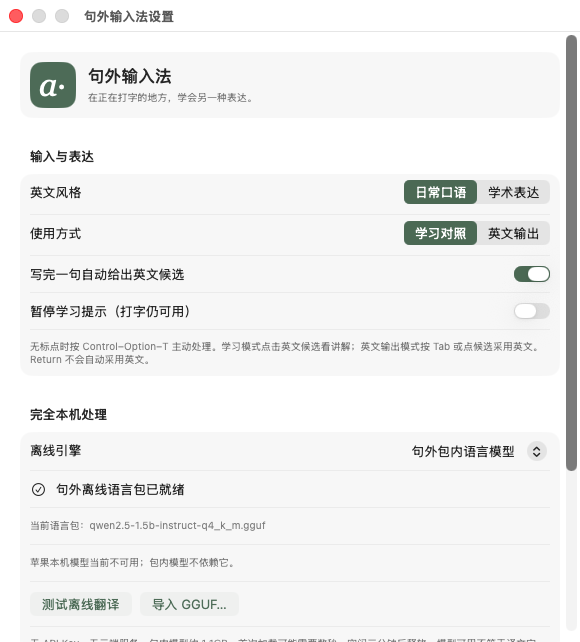
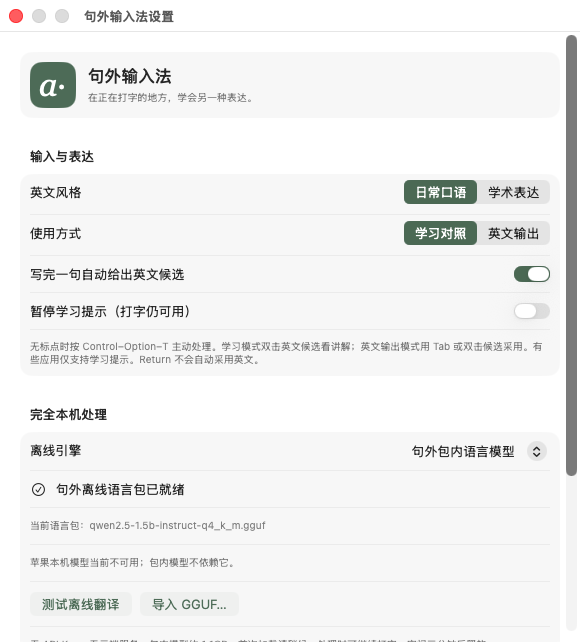
docs: publish offline input method download and verified screenshots [skip ci]

diff --git a/README.md b/README.md
@@ -4,13 +4,19 @@
 
 句外是一款 macOS 输入法：中文整句翻译、英文整句改写，附中文讲解。日常口语与学术表达二选一，目标是在百度搜索框、微信聊天框等现有输入框里使用。
 
-## 当前进度
+## 下载
 
-**0.3 输入法版本正在回归验证，尚未发布新版 DMG。** 原生安装、两个系统输入模式、拼音和英文实际按键输入、离线生成已有 macOS CI 记录；最新词语提交行为与网页兼容性仍在检查。旧版 0.2 编辑器安装包不包含此输入法。
+**[下载 0.3.0 完整离线安装包 · Apple Silicon Mac](https://github.com/pengruoxin/Aside/releases/download/v0.3.0/Aside-0.3.0-arm64-offline.dmg)**
+
+[版本说明](https://github.com/pengruoxin/Aside/releases/tag/v0.3.0) · [SHA-256 校验文件](https://github.com/pengruoxin/Aside/releases/download/v0.3.0/Aside-0.3.0-arm64-offline.dmg.sha256)
+
+这是可安装的原生输入法测试版，内含约 1.1GB 离线模型。打开 DMG 中的“安装句外”，按提示安装和重新登录，再从系统输入源菜单选择句外。旧版 0.2 编辑器安装包不包含此输入法。
 
 [构建结果](https://github.com/pengruoxin/Aside/actions/workflows/macos.yml) · [已发布版本](https://github.com/pengruoxin/Aside/releases)
 
 当前面向 **Apple Silicon、macOS 26+**，优先适配 13 英寸 MacBook Air（M5、16GB）。苹果拼音和 ABC 可以保留，选中句外输入源时才提供句外功能。拼音引擎使用 Rime，操作尽量遵循 macOS，候选排序不会与苹果拼音完全相同。
+
+测试版尚未公证，首次打开可能需要在“隐私与安全性”中确认。百度、已登录微信及目标 M5 设备仍待实机验收，具体范围见[验证记录](docs/verification.md)。
 
 ## 日常使用
 
@@ -27,7 +33,7 @@
 | Esc | 取消当前拼音或隐藏学习提示 |
 | 输入源切换 | 使用 macOS 已配置的地球键、Control–空格、Caps Lock 等设置 |
 
-**译文显示在原生输入法候选区。** 当前没有实现所有应用通用的输入框内浅灰英文；译文不混进搜索词或聊天正文，不自动发送。模型未就绪或处理失败时仍可输入原文。每次最多处理 600 字；超长内容保留原文，不静默截断后翻译。
+**译文显示在原生输入法候选区。** 当前没有实现所有应用通用的输入框内浅灰英文；译文不混进搜索词或聊天正文，不自动发送。模型未就绪或处理失败时仍可输入原文。每次最多积累 600 字；达到上限会清空学习上下文并保留正文，建议按句处理。
 
 选好的词立即落入原输入框，后台累积整句。普通退格尽量保留前文；移动光标、粘贴或切换输入框后，当前学习上下文重新开始。采用英文前会核对原文和位置；无法核对的输入框保留原文。
 
@@ -35,9 +41,11 @@
 
 ## 原生界面
 
-以下为 macOS 自动测试中截取的真实界面；输入框是测试宿主，不随安装包提供编辑器。
+日常只显示一行候选，需要时双击展开中文讲解；讲解不抢输入焦点，按 Esc 收起。以下为 macOS 自动测试的真实截图，“你好”为手动短语示例，自动模式等待句末。测试输入框不会随安装包提供为编辑器。
 
 ![原生拼音候选区](docs/images/ime-pinyin.png)
+
+![按需展开的英文与中文讲解](docs/images/ime-explanation.png)
 
 ![句外输入法设置](docs/images/ime-settings.png)
 
@@ -53,7 +61,7 @@
 
 ## 安装方式
 
-新版发布后，打开 DMG 内的“安装句外”，安装器将输入法放入当前用户的 `~/Library/Input Methods/Aside.app` 并注册。它不是拖入 Applications 的独立编辑器。若输入菜单没有出现，请在系统设置 → 键盘 → 文本输入 → 编辑中添加句外，必要时退出登录后重新登录。
+打开 DMG 内的“安装句外”，安装器将输入法放入当前用户的 `~/Library/Input Methods/Aside.app` 并注册。若提示重新登录，请先保存工作；重新登录后，从输入源菜单选择句外。若仍没有出现，在系统设置 → 键盘 → 文本输入 → 编辑中添加句外。
 
 升级前切换到 ABC 或苹果拼音。安装器暂存并验证新包，备份原包后替换；升级后需要退出登录再登录以加载新版本。完整包内含模型，可以断网测试。
 
@@ -73,7 +81,9 @@ bash scripts/package-dmg.sh
 
 构建阶段联网下载固定版本的词典、推理程序和模型，模型校验 SHA-256；安装后不需要这些构建依赖。完整包仅在检查全部通过后生成至 `dist/Aside-0.3.0-arm64-offline.dmg`。CI 轻量构建不含模型，不能作为完整离线安装包。
 
-CI 检查核心逻辑、安装失败回滚、Rime 实际选词、本机离线生成、标准原生与 WebKit 输入控件、系统输入源注册和切换。**标准控件测试不等于百度、微信已经验收。** Windows 开发环境无法代替目标 Mac 的实际使用测试。详见 [验证记录](docs/verification.md)。
+[完整离线构建与发布验证](https://github.com/pengruoxin/Aside/actions/runs/40998598138) 已通过：25 项核心测试、真实安装、系统输入源冷启动和切换、原生选词、离线生成、可见中文讲解、Tab 采用英文、Return 一次提交、WebKit 搜索/聊天及相同文字换框失效检查。
+
+**标准控件测试不等于百度、微信已经验收。** 真实百度页面的苹果拼音对照未能完成，因此未计为通过；已登录微信和目标 M5 Mac 仍待实机检查。当前测试版未做 Developer ID 签名或公证。详见 [验证记录](docs/verification.md)。
 
 ## 源码与许可
 

diff --git a/docs/verification.md b/docs/verification.md
@@ -4,6 +4,25 @@
 
 ## 已有证据
 
+**发布构建 [40998598138](https://github.com/pengruoxin/Aside/actions/runs/40998598138) 已全部通过，已发布 [v0.3.0](https://github.com/pengruoxin/Aside/releases/tag/v0.3.0) 完整离线测试版。** 标签源码为 `1086c15`。此前完整构建 [40995545066](https://github.com/pengruoxin/Aside/actions/runs/40995545066) 验证 `7d104f8`；发布版本随包输入法代码与其一致，仅测试宿主的就绪条件有修正。
+
+- 25 项核心测试通过，包含整句累积、过期结果、UTF-16 替换范围、空白保留、安装回滚。
+- 实际安装器、系统输入源冷启动、两种模式、空格确认与原生双击选词通过。
+- 包内真实模型完成中文翻译、英文改写及中文讲解；原生讲解窗口确实可见，并已人工核对截图。
+- 生成期间正文保持原样；双击看讲解、Tab 采用英文、Return 交给应用且只提交一次均通过。
+- WebKit 搜索/聊天输入与提交通过；两个输入框文字和光标相同，换框后旧译文仍不能被采用。
+- 完整模型 DMG 生成与 `hdiutil verify` 通过；安装器、输入法及随包依赖通过本机签名完整性检查。这不等于 Developer ID 签名或 Apple 公证。
+
+主分支 `1086c15` 的[轻量回归 40997819180](https://github.com/pengruoxin/Aside/actions/runs/40997819180) 已通过。该提交只修正测试宿主的就绪判断：系统已选中句外时，允许 macOS 在第一个按键才启动输入法；最终输入内容的断言保持不变，不修改随包输入法代码。
+
[1 lines of base64/hex data omitted]
+
+![实际显示的中文讲解](images/ime-explanation.png)
+
+## 历史排查记录
+
+- [40997160380](https://github.com/pengruoxin/Aside/actions/runs/40997160380)：真实模型翻译、可见讲解、Tab 采用及 WebKit 输入通过；随后因测试要求输入法进程在第一个按键之前存在而失败。未生成或发布安装包，不能作为成功发布记录；此测试条件已由 `1086c15` 修正。
+
 - [40989619234](https://github.com/pengruoxin/Aside/actions/runs/40989619234)：最新系统模式回调、词语确认、退格、手动整句处理、不可回读客户端和 WebKit 搜索/聊天输入回归通过。两种模式使用独立“中 / A”图标。真实百度页中苹果拼音已能输入“你好”，但未观察到 Return 搜索，因此该页仍记录 UNAVAILABLE。
 
 - [40986774181](https://github.com/pengruoxin/Aside/actions/runs/40986774181)：词语立即提交的新流程基础回归通过；核心测试、连续选词、确认后无 marked text、退格、手动整句处理、两个模式和标准 WebKit 搜索/聊天提交。百度的同页苹果拼音对照未通过，记录 UNAVAILABLE，不代表百度通过。
@@ -17,12 +36,10 @@
 - [40848255418](https://github.com/pengruoxin/Aside/actions/runs/40848255418)：执行安装器的真实安装流程并校对运行包位置；标准搜索和聊天输入框 Return 各一次。
 - [40850143052](https://github.com/pengruoxin/Aside/actions/runs/40850143052)：IMK 内离线生成期间正文不变，Tab 采用英文、Return 一次；该轮最终因百度实际页面检查失败，整体未通过。
 
-上述历史记录不能替代最新提交的回归检查。最新改动将确认词语立即写入宿主，只保留未确认拼音的 marked text；Tab 替换需核对原文、光标与 UTF-16 范围，并保留两侧空白。正在重新验证，全部通过前不发布新版安装包。
+旧记录用于追踪改动，当前验证状态以前面的完整构建为准。确认词语立即写入宿主，只保留未确认拼音的 marked text；Tab 替换核对原文、光标与 UTF-16 范围，并保留两侧空白。此前仅调用系统讲解回调不足以证明内容可见，现已改为检查实际讲解窗口并核对截图。
 
-## 发布前仍需通过
+## 仍待实机验收
 
-- 最新词语提交行为、连续选词、退格、离线候选讲解及显式英文替换。
-- 最新完整离线模型打包、安装器签名检查、DMG 校验。
 - 在目标 Mac 安装、首次加载、断网、睡眠唤醒与升级检查。
 - 百度搜索框：拼音候选、无句号手动翻译、Return 搜索，不混入英文提示。
 - 已登录微信：中文长句、英文改写、Return 发送一次、切换聊天对象、焦点变化、Esc、Tab、复制粘贴和撤销。
